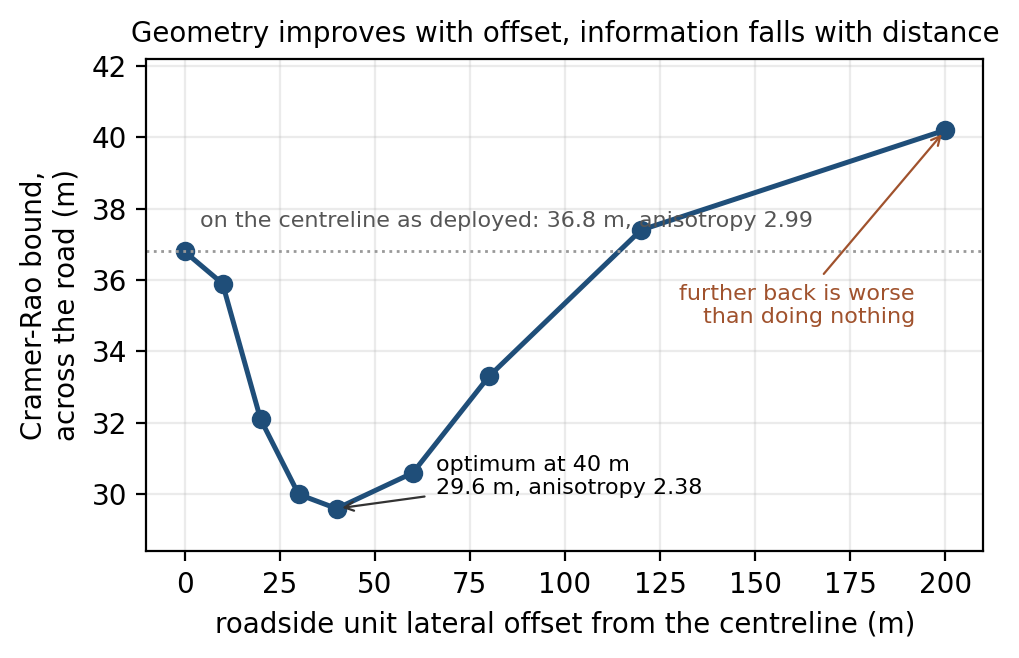
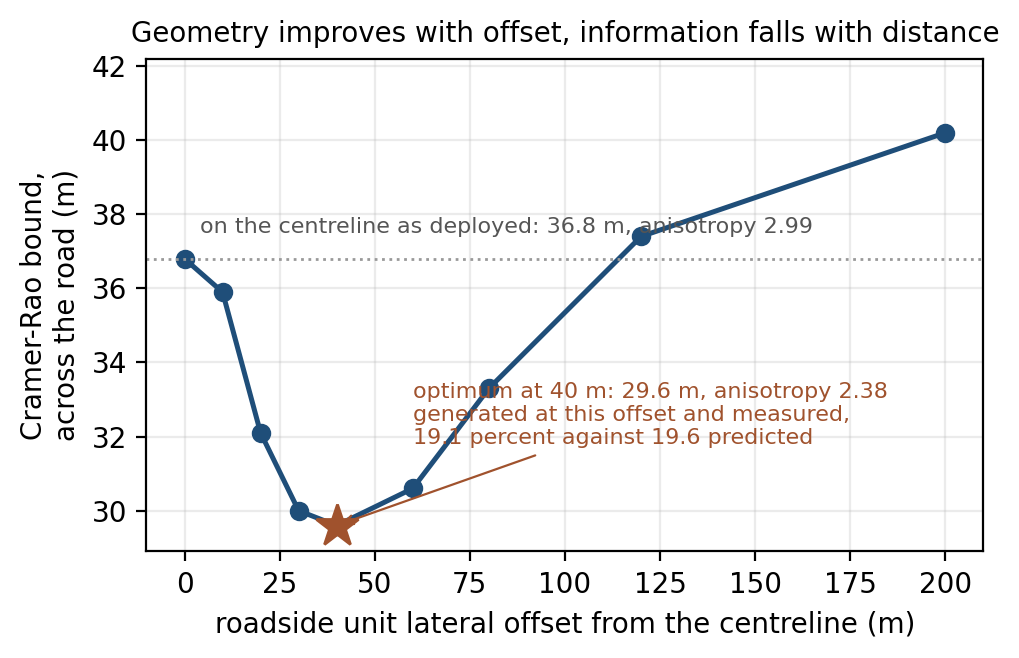
Mark the placement the campaign actually generated on its own curve
The sweep curve showed a predicted optimum and nothing about whether the
prediction survived. It now carries the point that was generated and measured,
with the two figures side by side: nineteen point one percent against nineteen
point six predicted. The floor figure is also re-rendered against the log the
verifier pins, after the rerun that carried the seed column through.

diff --git a/analysis/make_figures.py b/analysis/make_figures.py
@@ -63,21 +63,19 @@ def fig_placement():
                 f"anisotropy {aniso[0]:.2f}",
                 xy=(off[0], across[0]), xytext=(4, across[0] + 0.7),
                 fontsize=8, color="#555555")
-    ax.annotate(f"optimum at {off[best]:.0f} m\n{across[best]:.1f} m, "
-                f"anisotropy {aniso[best]:.2f}",
-                xy=(off[best], across[best]),
-                xytext=(off[best] + 26, across[best] + 0.4),
-                fontsize=8, ha="left",
-                arrowprops=dict(arrowstyle="->", lw=0.8, color="#333333"))
-    ax.annotate("further back is worse\nthan doing nothing",
-                xy=(off[-1], across[-1]), xytext=(off[-1] - 8, across[-1] - 5.4),
-                fontsize=8, ha="right", color="#a0522d",
+    ax.plot([40], [across[best]], "*", ms=16, color="#a0522d", zorder=5)
+    ax.annotate(f"optimum at {off[best]:.0f} m: {across[best]:.1f} m, "
+                f"anisotropy {aniso[best]:.2f}\n"
+                f"generated at this offset and measured,\n"
+                f"19.1 percent against 19.6 predicted",
+                xy=(40, across[best]), xytext=(60, across[best] + 2.2),
+                fontsize=8, color="#a0522d",
                 arrowprops=dict(arrowstyle="->", lw=0.8, color="#a0522d"))
     ax.set_xlabel("roadside unit lateral offset from the centreline (m)")
     ax.set_ylabel("Cramer-Rao bound,\nacross the road (m)")
     ax.set_title("Geometry improves with offset, information falls with distance",
                  fontsize=10)
-    ax.set_ylim(28.4, 42.2)
+    ax.set_ylim(28.9, 42.2)
     ax.grid(alpha=0.25)
     save(fig, "placement")
 
